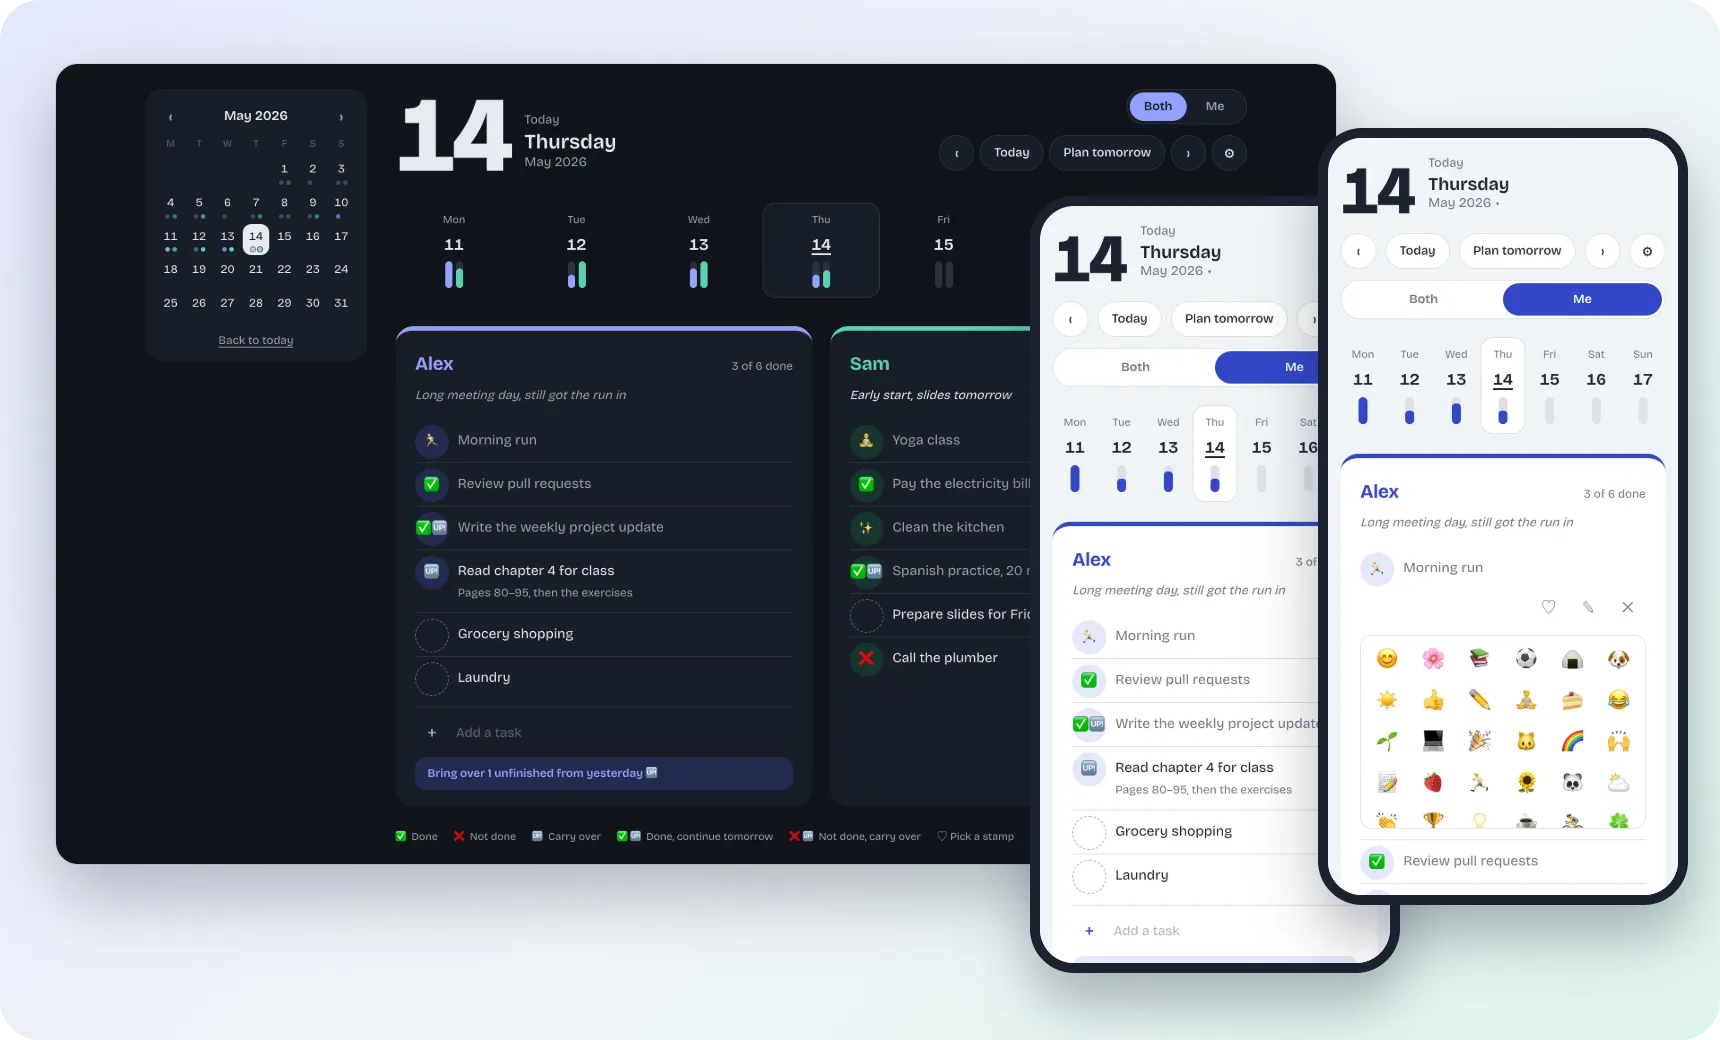
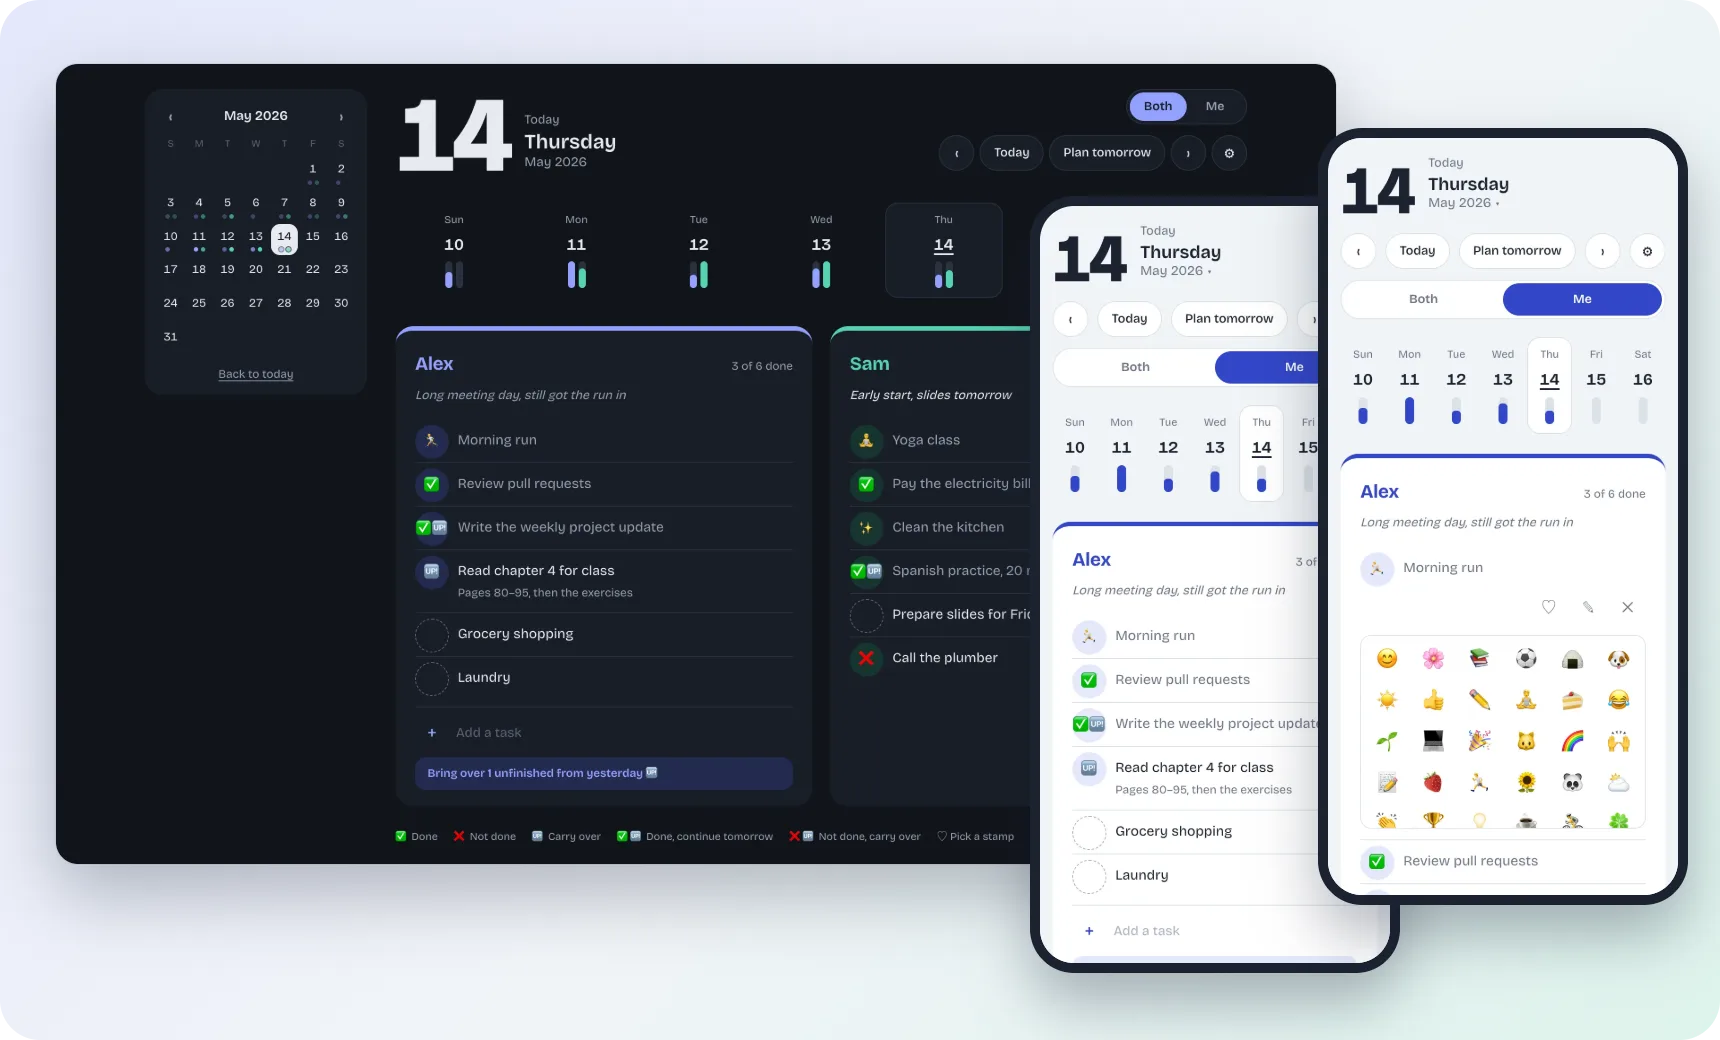
Start weeks on Sunday and add a records download

diff --git a/app.js b/app.js
@@ -4,7 +4,7 @@ import { getAuth, onAuthStateChanged, signInWithEmailAndPassword, signOut, updat
   from "https://www.gstatic.com/firebasejs/10.12.2/firebase-auth.js";
 import { getFirestore, collection, doc, onSnapshot, setDoc }
   from "https://www.gstatic.com/firebasejs/10.12.2/firebase-firestore.js";
-import { firebaseConfig, PIN_LENGTH, ASK_PIN_EVERY_TIME, STICKERS } from "./config.js?v=12";
+import { firebaseConfig, PIN_LENGTH, ASK_PIN_EVERY_TIME, STICKERS } from "./config.js?v=13";
 
 const fb = initializeApp(firebaseConfig);
 const auth = getAuth(fb);
@@ -51,9 +51,8 @@ function todayStr() { return fmt(new Date()); }
 function parse(s) { const [y, m, d] = s.split("-").map(Number); return new Date(y, m - 1, d); }
 function addDays(s, n) { const d = parse(s); d.setDate(d.getDate() + n); return fmt(d); }
 function weekOf(s) {
-  const d = parse(s); const shift = (d.getDay() + 6) % 7; // week starts Monday
-  const mon = addDays(s, -shift);
-  return Array.from({ length: 7 }, (_, i) => addDays(mon, i));
+  const sun = addDays(s, -parse(s).getDay()); // week starts Sunday (getDay: Sunday = 0)
+  return Array.from({ length: 7 }, (_, i) => addDays(sun, i));
 }
 
 function setDate(d) { state.date = d; state.calMonth = d.slice(0, 7); state.calOpen = false; }
@@ -341,7 +340,7 @@ function ratio(person, date) {
 function calHTML() {
   const [y, m] = state.calMonth.split("-").map(Number);
   const first = new Date(y, m - 1, 1);
-  const lead = (first.getDay() + 6) % 7;
+  const lead = first.getDay(); // empty cells before the 1st: the week starts Sunday
   const count = new Date(y, m, 0).getDate();
   const t = todayStr();
   let cells = "";
@@ -362,7 +361,7 @@ function calHTML() {
       <span>${first.toLocaleDateString("en-US", { month: "long", year: "numeric" })}</span>
       <button class="calnav" data-action="calnext" aria-label="Next month">›</button>
     </div>
-    <div class="calgrid">${["M","T","W","T","F","S","S"].map(x => `<span class="cw">${x}</span>`).join("")}${cells}</div>
+    <div class="calgrid">${["S","M","T","W","T","F","S"].map(x => `<span class="cw">${x}</span>`).join("")}${cells}</div>
     <button class="linkbtn caltoday" data-action="today">Back to today</button>
   </div>`;
 }
@@ -572,6 +571,140 @@ document.addEventListener("keydown", e => {
   if (e.key === "ArrowRight") { setDate(addDays(state.date, 1)); render(); }
 });
 
+/* ---------- download my records (.txt or .docx) ---------- */
+// Your own days, oldest first. A day with neither tasks nor a comment is skipped.
+function myRecords() {
+  const me = mySlot(); if (!me) return [];
+  return Object.entries(state.days)
+    .filter(([id, d]) => id.endsWith("_" + me) && ((d.tasks || []).length || d.comment))
+    .map(([id, d]) => ({ date: id.slice(0, 10), comment: d.comment || "", tasks: d.tasks || [] }))
+    .sort((a, b) => a.date.localeCompare(b.date));
+}
+const NOT_MARKED = "⬜"; // a task with no status yet
+const markOf = t => stampOf(t) || NOT_MARKED;
+const dayTitle = ds => ds + " (" + parse(ds).toLocaleDateString("en-US", { weekday: "short" }) + ")";
+const countText = n => n + " day" + (n === 1 ? "" : "s");
+const legendText = () => STATUS.slice(1).map(s => s.emoji + " " + s.label).join("   ") + "   " + NOT_MARKED + " Not marked   Any other emoji: a stamp (done)";
+
+function recordsText(days) {
+  const out = ["My daily list records", "Exported " + todayStr() + " · " + countText(days.length), "", legendText(), ""];
+  days.forEach(d => {
+    out.push(dayTitle(d.date));
+    if (d.comment) out.push("  Comment: " + d.comment);
+    d.tasks.forEach(t => {
+      out.push("  " + markOf(t) + " " + t.text);
+      if (t.note) out.push("      Note: " + t.note);
+    });
+    out.push("");
+  });
+  return new Blob(["\uFEFF" + out.join("\n")], { type: "text/plain;charset=utf-8" }); // BOM: older editors then read the emoji correctly
+}
+
+// A Word file is a zip of a few XML files. This writes the zip without compression, so no library is needed.
+const CRC_TABLE = (() => {
+  const t = new Uint32Array(256);
+  for (let n = 0; n < 256; n++) { let c = n; for (let k = 0; k < 8; k++) c = c & 1 ? 0xEDB88320 ^ (c >>> 1) : c >>> 1; t[n] = c >>> 0; }
+  return t;
+})();
+function crc32(bytes) {
+  let c = 0xFFFFFFFF;
+  for (let i = 0; i < bytes.length; i++) c = CRC_TABLE[(c ^ bytes[i]) & 0xFF] ^ (c >>> 8);
+  return (c ^ 0xFFFFFFFF) >>> 0;
+}
+function zipStore(files, mime) {
+  const enc = new TextEncoder(), now = new Date();
+  const time = (now.getHours() << 11) | (now.getMinutes() << 5) | (now.getSeconds() >> 1);
+  const date = ((now.getFullYear() - 1980) << 9) | ((now.getMonth() + 1) << 5) | now.getDate();
+  const parts = [], central = [];
+  let offset = 0;
+  for (const [name, text] of files) {
+    const nameB = enc.encode(name), data = enc.encode(text), crc = crc32(data);
+    const head = new DataView(new ArrayBuffer(30));
+    head.setUint32(0, 0x04034b50, true); head.setUint16(4, 20, true); head.setUint16(6, 0x0800, true); // 0x0800: names are UTF-8
+    head.setUint16(10, time, true); head.setUint16(12, date, true);
+    head.setUint32(14, crc, true); head.setUint32(18, data.length, true); head.setUint32(22, data.length, true);
+    head.setUint16(26, nameB.length, true);
+    const dir = new DataView(new ArrayBuffer(46));
+    dir.setUint32(0, 0x02014b50, true); dir.setUint16(4, 20, true); dir.setUint16(6, 20, true); dir.setUint16(8, 0x0800, true);
+    dir.setUint16(12, time, true); dir.setUint16(14, date, true);
+    dir.setUint32(16, crc, true); dir.setUint32(20, data.length, true); dir.setUint32(24, data.length, true);
+    dir.setUint16(28, nameB.length, true); dir.setUint32(42, offset, true);
+    parts.push(head, nameB, data);
+    central.push(dir, nameB);
+    offset += 30 + nameB.length + data.length;
+  }
+  const dirSize = central.reduce((n, p) => n + (p.byteLength ?? p.length), 0);
+  const end = new DataView(new ArrayBuffer(22));
+  end.setUint32(0, 0x06054b50, true); end.setUint16(8, files.length, true); end.setUint16(10, files.length, true);
+  end.setUint32(12, dirSize, true); end.setUint32(16, offset, true);
+  return new Blob([...parts, ...central, end], { type: mime });
+}
+
+const xmlEsc = s => String(s ?? "").replace(/[\u0000-\u0008\u000B\u000C\u000E-\u001F\uFFFE\uFFFF]/g, "")
+  .replace(/[&<>"]/g, c => ({ "&": "&amp;", "<": "&lt;", ">": "&gt;", '"': "&quot;" }[c]));
+const W_NS = 'xmlns:w="http://schemas.openxmlformats.org/wordprocessingml/2006/main"';
+const wRun = (text, o = {}) => {
+  const pr = (o.i ? "<w:i/>" : "") + (o.color ? `<w:color w:val="${o.color}"/>` : "") + (o.sz ? `<w:sz w:val="${o.sz}"/>` : "");
+  return `<w:r>${pr ? `<w:rPr>${pr}</w:rPr>` : ""}<w:t xml:space="preserve">${xmlEsc(text)}</w:t></w:r>`;
+};
+const wPara = (runs, o = {}) => {
+  const pr = (o.style ? `<w:pStyle w:val="${o.style}"/>` : "") + (o.left ? `<w:ind w:left="${o.left}"${o.hang ? ` w:hanging="${o.hang}"` : ""}/>` : "");
+  return `<w:p>${pr ? `<w:pPr>${pr}</w:pPr>` : ""}${runs}</w:p>`;
+};
+
+function recordsDocx(days) {
+  const grey = { color: "666666" }, small = { color: "666666", sz: 20 };
+  const body = [
+    wPara(wRun("My daily list records"), { style: "Heading1" }),
+    wPara(wRun("Exported " + todayStr() + " · " + countText(days.length), grey)),
+    wPara(wRun(legendText(), small))
+  ];
+  days.forEach(d => {
+    body.push(wPara(wRun(dayTitle(d.date)), { style: "Heading2" }));
+    if (d.comment) body.push(wPara(wRun("Comment: " + d.comment, { ...grey, i: true })));
+    d.tasks.forEach(t => {
+      // hanging indent: a wrapped task name lines up under the name, not under the mark
+      body.push(wPara(wRun(markOf(t)) + "<w:r><w:tab/></w:r>" + wRun(t.text), { left: 567, hang: 567 }));
+      if (t.note) body.push(wPara(wRun("Note: " + t.note, small), { left: 567 }));
+    });
+  });
+  const head = '<?xml version="1.0" encoding="UTF-8" standalone="yes"?>';
+  const rel = (id, type, target) => `<Relationship Id="${id}" Type="http://schemas.openxmlformats.org/officeDocument/2006/relationships/${type}" Target="${target}"/>`;
+  const RELS = 'xmlns="http://schemas.openxmlformats.org/package/2006/relationships"';
+  const style = (id, name, size, before, level) => `<w:style w:type="paragraph" w:styleId="${id}"><w:name w:val="${name}"/><w:basedOn w:val="Normal"/><w:next w:val="Normal"/><w:qFormat/>` +
+    `<w:pPr><w:keepNext/><w:spacing w:before="${before}" w:after="80"/><w:outlineLvl w:val="${level}"/></w:pPr><w:rPr><w:b/><w:sz w:val="${size}"/><w:szCs w:val="${size}"/></w:rPr></w:style>`;
+  return zipStore([
+    ["[Content_Types].xml", head + '<Types xmlns="http://schemas.openxmlformats.org/package/2006/content-types">' +
+      '<Default Extension="rels" ContentType="application/vnd.openxmlformats-package.relationships+xml"/><Default Extension="xml" ContentType="application/xml"/>' +
+      '<Override PartName="/word/document.xml" ContentType="application/vnd.openxmlformats-officedocument.wordprocessingml.document.main+xml"/>' +
+      '<Override PartName="/word/styles.xml" ContentType="application/vnd.openxmlformats-officedocument.wordprocessingml.styles+xml"/></Types>'],
+    ["_rels/.rels", head + `<Relationships ${RELS}>${rel("rId1", "officeDocument", "word/document.xml")}</Relationships>`],
+    ["word/_rels/document.xml.rels", head + `<Relationships ${RELS}>${rel("rId1", "styles", "styles.xml")}</Relationships>`],
+    ["word/styles.xml", head + `<w:styles ${W_NS}><w:docDefaults><w:rPrDefault><w:rPr><w:rFonts w:ascii="Calibri" w:hAnsi="Calibri" w:cs="Calibri"/><w:sz w:val="22"/><w:szCs w:val="22"/></w:rPr></w:rPrDefault>` +
+      '<w:pPrDefault><w:pPr><w:spacing w:after="60" w:line="276" w:lineRule="auto"/></w:pPr></w:pPrDefault></w:docDefaults>' +
+      '<w:style w:type="paragraph" w:default="1" w:styleId="Normal"><w:name w:val="Normal"/><w:qFormat/></w:style>' +
+      style("Heading1", "heading 1", 36, 0, 0) + style("Heading2", "heading 2", 26, 280, 1) + "</w:styles>"],
+    ["word/document.xml", head + `<w:document ${W_NS}><w:body>${body.join("")}` +
+      '<w:sectPr><w:pgSz w:w="12240" w:h="15840"/><w:pgMar w:top="1440" w:right="1440" w:bottom="1440" w:left="1440" w:header="720" w:footer="720" w:gutter="0"/></w:sectPr></w:body></w:document>']
+  ], "application/vnd.openxmlformats-officedocument.wordprocessingml.document");
+}
+
+function saveFile(blob, name) {
+  const url = URL.createObjectURL(blob);
+  const a = document.createElement("a");
+  a.href = url; a.download = name;
+  document.body.appendChild(a); a.click(); a.remove();
+  setTimeout(() => URL.revokeObjectURL(url), 10000);
+}
+function downloadRecords(format) {
+  const msg = dlg.querySelector("#expMsg");
+  const days = myRecords();
+  if (!days.length) { msg.textContent = "There are no records to download yet."; return; }
+  const docx = format === "docx";
+  saveFile(docx ? recordsDocx(days) : recordsText(days), "daily-list-records-" + todayStr() + (docx ? ".docx" : ".txt"));
+  msg.textContent = "Downloaded " + countText(days.length) + ".";
+}
+
 /* ---------- settings ---------- */
 const dlg = document.getElementById("settings");
 function openSettings() {
@@ -582,6 +715,18 @@ function openSettings() {
     <div class="mine">
       <label for="myName">My name</label><input id="myName" value="${esc(state.settings.names[me])}" maxlength="30">
       <label for="myRoutines" style="margin-top:12px">My daily routines</label><textarea id="myRoutines">${esc((state.settings.recurring[me] || []).join("\n"))}</textarea>
+    </div>
+    <div class="exportset">
+      <h3>Download my records</h3>
+      <p>Every day of your list with its task marks, notes and comments, in one file.</p>
+      <div class="exprow">
+        <select id="expFormat" aria-label="File format">
+          <option value="txt">Text (.txt)</option>
+          <option value="docx">Word (.docx)</option>
+        </select>
+        <button type="button" class="pill" data-export>Download</button>
+      </div>
+      <div class="expmsg" id="expMsg" role="status"></div>
     </div>` : ""}
     <div class="pinset">
       <h3>Change my PIN</h3>
@@ -599,6 +744,10 @@ function openSettings() {
   </form>`;
   dlg.showModal();
 }
+// type="button": the download does not close the dialog
+dlg.addEventListener("click", e => {
+  if (e.target.closest("[data-export]")) downloadRecords(dlg.querySelector("#expFormat").value);
+});
 dlg.addEventListener("close", () => {
   if (dlg.returnValue === "signout") { signOut(auth); return; }
   if (dlg.returnValue === "pin") { changePin(dlg.querySelector("#pin1").value, dlg.querySelector("#pin2").value); return; }

diff --git a/style.css b/style.css
@@ -181,9 +181,12 @@ dialog::backdrop { background: rgba(10, 14, 22, .45); }
 .key { height: 56px; border-radius: 16px; border: none; background: var(--bg); font-size: 22px; font-weight: 500; }
 .key:hover { filter: brightness(.97); }
 .key.blank { visibility: hidden; }
-.pinset { margin-top: 18px; padding-top: 16px; border-top: 1px solid var(--line); }
-.pinset h3 { margin: 0 0 8px; font-size: 16px; }
-.pinrow { display: flex; gap: 8px; }
+.pinset, .exportset { margin-top: 18px; padding-top: 16px; border-top: 1px solid var(--line); }
+.pinset h3, .exportset h3 { margin: 0 0 8px; font-size: 16px; }
+.exportset p { margin: 0 0 10px; }
+.pinrow, .exprow { display: flex; gap: 8px; }
+.exprow select { flex: 1; min-width: 0; height: 40px; border: 1px solid var(--line); background: var(--bg); color: inherit; border-radius: 10px; padding: 0 10px; font-size: 15px; }
+.expmsg { min-height: 1.3em; margin-top: 8px; font-size: 13px; color: var(--muted); }
 .pinrow input { flex: 1; min-width: 0; border: 1px solid var(--line); background: var(--bg); border-radius: 10px; padding: 8px 10px; font-size: 15px; letter-spacing: .2em; }
 
 /* Stamp picker */

diff --git a/index.html b/index.html
@@ -27,7 +27,7 @@
 <link rel="preconnect" href="https://fonts.googleapis.com">
 <link rel="preconnect" href="https://fonts.gstatic.com" crossorigin>
 <link href="https://fonts.googleapis.com/css2?family=Bricolage+Grotesque:opsz,wght@12..96,300..800&display=swap" rel="stylesheet">
-<link rel="stylesheet" href="style.css?v=12">
+<link rel="stylesheet" href="style.css?v=13">
 </head>
 <body>
 <div class="wrap" id="app"></div>
@@ -58,6 +58,6 @@
   });
 })();
 </script>
-<script type="module" src="app.js?v=12"></script>
+<script type="module" src="app.js?v=13"></script>
 </body>
 </html>
